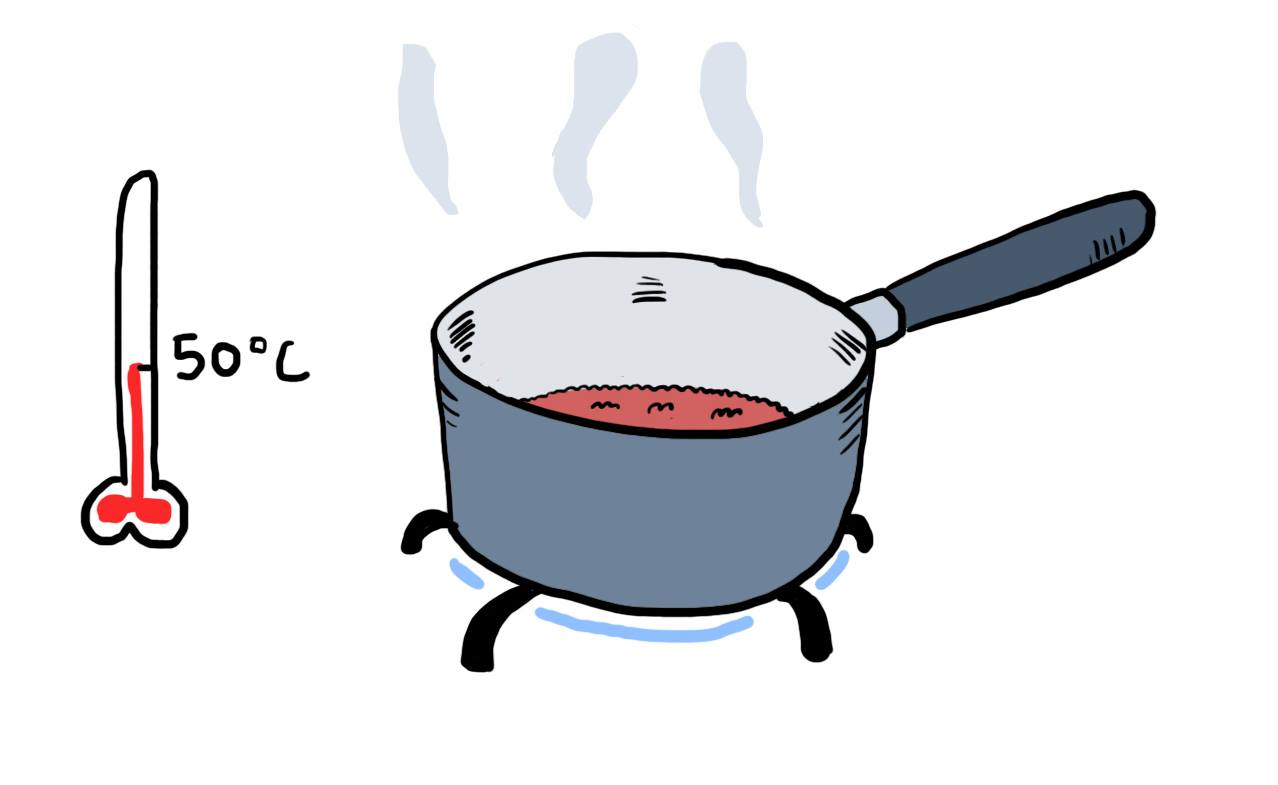
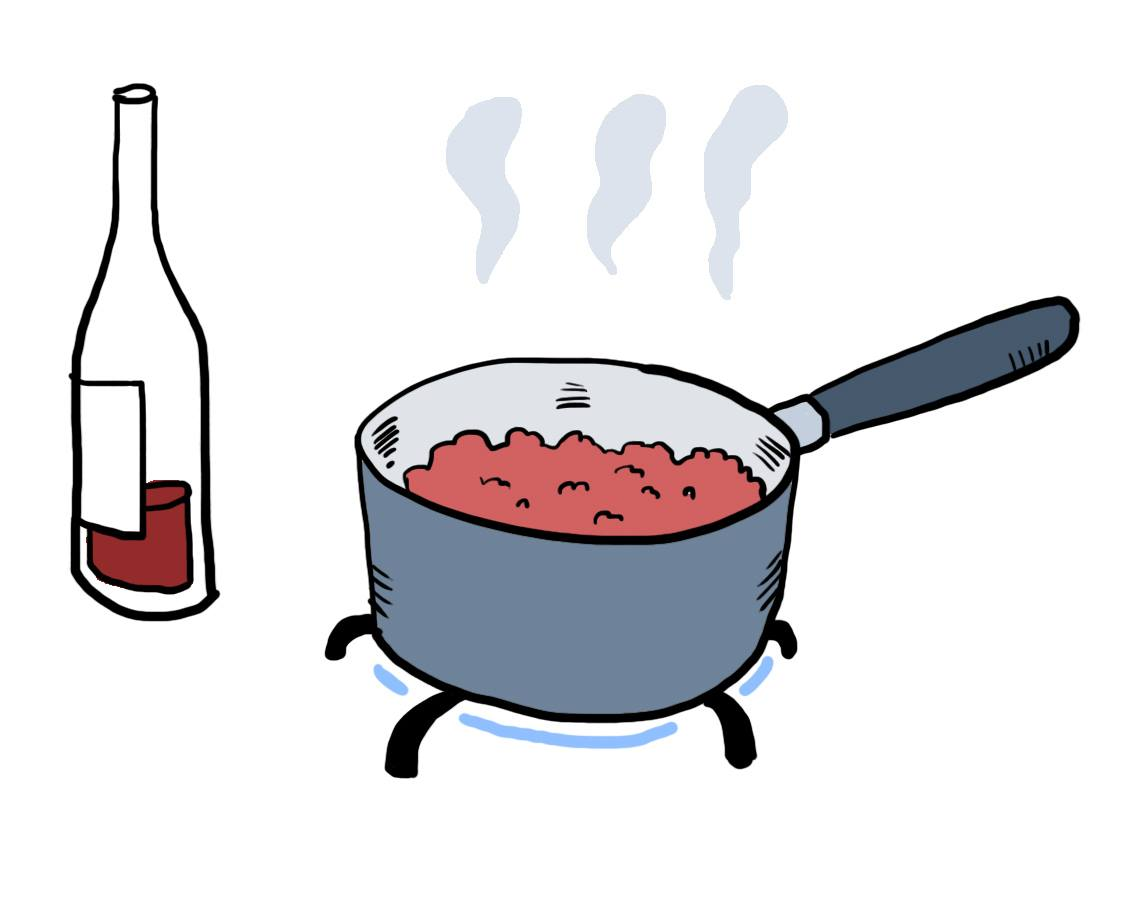
add image loader 2/2

Changed region(s): [[0.2802, 0.0306, 0.9653, 0.8561], [0.0623, 0.0917, 0.2491, 0.7032]]

diff --git a/src/components/recipe.jsx b/src/components/recipe.jsx
@@ -4,45 +4,23 @@ import { useParams } from "react-router-dom";
 
 import recipes from "recipes";
 
-const StepContainer = styled.div`
-  scroll-snap-align: start;
-  min-height: 100%;
-  width: 100vw;
-  display: flex;
-  flex-flow: column nowrap;
-  justify-content: center;
-  align-items: center;
-  position: relative;
-  background-color: white;
-  overflow: hidden;
-`;
-
-const StepMark = styled.div`
-  font-size: 14px;
-  width: 100px;
-  background: #e45b4e9e;
-  position: absolute;
-  text-align: center;
-  line-height: 30px;
-  letter-spacing: 1px;
-  color: #f0f0f0;
-  top: 10px;
-  right: -30px;
-  transform: rotate(45deg);
-`;
+import RecipeStep from "components/recipe-step.jsx";
 
 const Recipe = ({ className }) => {
   const { id } = useParams();
   const currentRecipe = recipes.find(recipe => recipe.id === id);
   const nbOfSteps = currentRecipe.steps.length;
 
-  return currentRecipe.steps.map(({ description, image, title }, index) => (
-    <StepContainer key={`currentRecipe.id_${index}`}>
-      <StepMark>{`${index + 1} / ${nbOfSteps}`}</StepMark>
-      <div>{title}</div>
-      <div>{description}</div>
-      <div>{image}</div>
-    </StepContainer>
+  return currentRecipe.steps.map(({ description, imageUrl, title }, index) => (
+    <RecipeStep
+      key={`currentRecipe.id_${index}`}
+      id={id}
+      description={description}
+      title={title}
+      index={index}
+      imageUrl={imageUrl}
+      nbOfSteps={nbOfSteps}
+    />
   ));
 };
 

diff --git a/src/components/recipe-step.jsx b/src/components/recipe-step.jsx
@@ -1,0 +1,58 @@
+import React from "react";
+import styled from "styled-components";
+
+import useImage from "hooks/image-loader.jsx";
+
+const StepContainer = styled.div`
+  scroll-snap-align: start;
+  min-height: 100%;
+  width: 100vw;
+  display: flex;
+  flex-flow: column nowrap;
+  justify-content: center;
+  align-items: center;
+  position: relative;
+  background-color: white;
+  overflow: hidden;
+`;
+
+const StepMark = styled.div`
+  font-size: 14px;
+  width: 100px;
+  background: #e45b4e9e;
+  position: absolute;
+  text-align: center;
+  line-height: 30px;
+  letter-spacing: 1px;
+  color: #f0f0f0;
+  top: 10px;
+  right: -30px;
+  transform: rotate(45deg);
+`;
+
+const Image = styled.img`
+  max-width: 500px;
+`;
+
+const RecipeStep = ({
+  className,
+  id,
+  title,
+  description,
+  imageUrl,
+  index,
+  nbOfSteps
+}) => {
+  const [image, status] = useImage(`recipe/${imageUrl}`);
+
+  return (
+    <StepContainer>
+      <StepMark>{`${index + 1} / ${nbOfSteps}`}</StepMark>
+      <div>{title}</div>
+      <div>{description}</div>
+      {image && <Image src={image} />}
+    </StepContainer>
+  );
+};
+
+export default RecipeStep;

diff --git a/src/recipes/magret-canard.js b/src/recipes/magret-canard.js
@@ -5,8 +5,22 @@ const magretCanard = {
   title: "Magret de canard",
   headerTitle: "un magret de canard",
   steps: [
-    { title: "faire bouillir l'eau", description: "blablabla" },
-    { title: "couper les patates", description: "blablabla" },
+    {
+      title: "Préparation du bouillon 1/3",
+      description: "Mettre à réduire 50 cl de vin rouge à légère ébullition.",
+      imageUrl: `${id}/step1_1.jpg`
+    },
+    {
+      title: "Préparation du bouillon 2/3",
+      description:
+        "Quand 2/3 du liquide s’est évaporé ajouter 25cl de fond de veau délayé et laissez réduire encore de moitié l’ensemble de la préparation",
+      imageUrl: `${id}/step1_2.jpg`
+    },
+    {
+      title: "Préparation du bouillon 3/3",
+      description: "Garder à température (autour de 50 degré)",
+      imageUrl: `${id}/step1_3.jpg`
+    },
     { title: "couper les patates", description: "blablabla" },
     { title: "couper les patates", description: "blablabla" },
     { title: "couper les patates", description: "blablabla" },

diff --git a/src/hooks/image-loader.jsx b/src/hooks/image-loader.jsx
@@ -8,18 +8,18 @@ const useImage = src => {
     if (!src) {
       return;
     }
-    (async src => {
-      try {
-        const image = await src;
-        setStatus("loaded");
-        setImage(image.default);
-      } catch (e) {
-        console.error(e);
-        setStatus("error");
-        setImage(null);
-      }
+    (src => {
+      import(`assets/image/${src}`)
+        .then(image => {
+          setStatus("loaded");
+          setImage(image.default);
+        })
+        .catch(err => {
+          setStatus("error");
+          setImage(null);
+        });
     })(src);
-  }, [src]);
+  }, [image, src]);
 
   return [image, status];
 };

diff --git a/src/components/home-recipe.jsx b/src/components/home-recipe.jsx
@@ -33,9 +33,7 @@ const Title = styled.h2`
 `;
 
 const HomeRecipe = ({ className, id, title }) => {
-  const [image, status] = useImage(
-    import(`assets/image/recipe/${id}/main.jpg`)
-  );
+  const [image, status] = useImage(`recipe/${id}/main.jpg`);
 
   return (
     <StyledHomeRecipe
